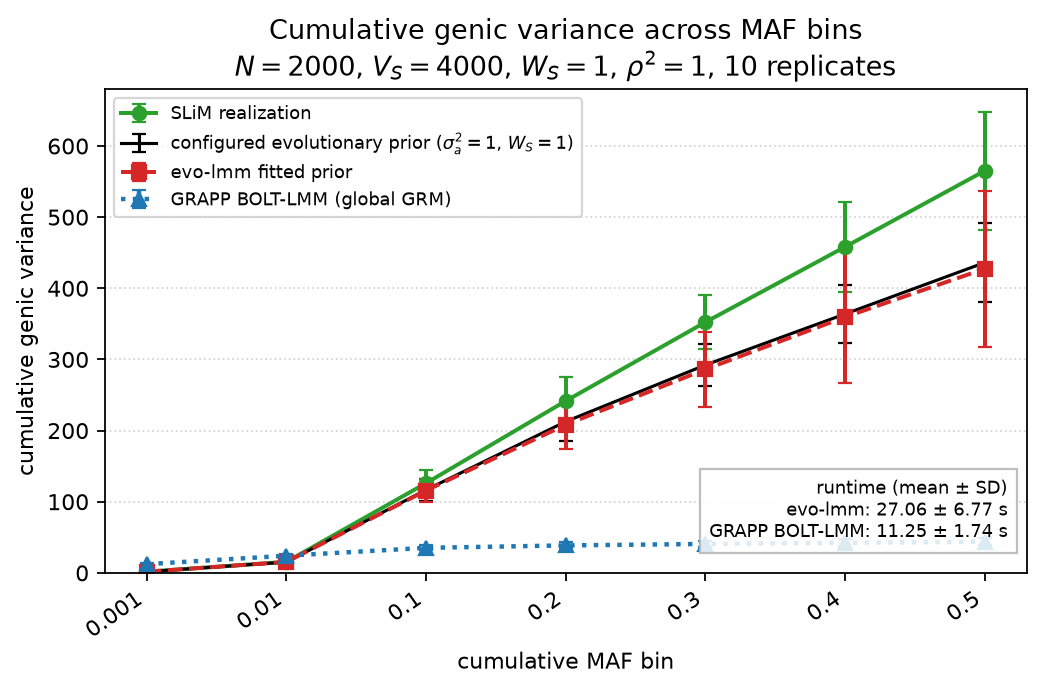
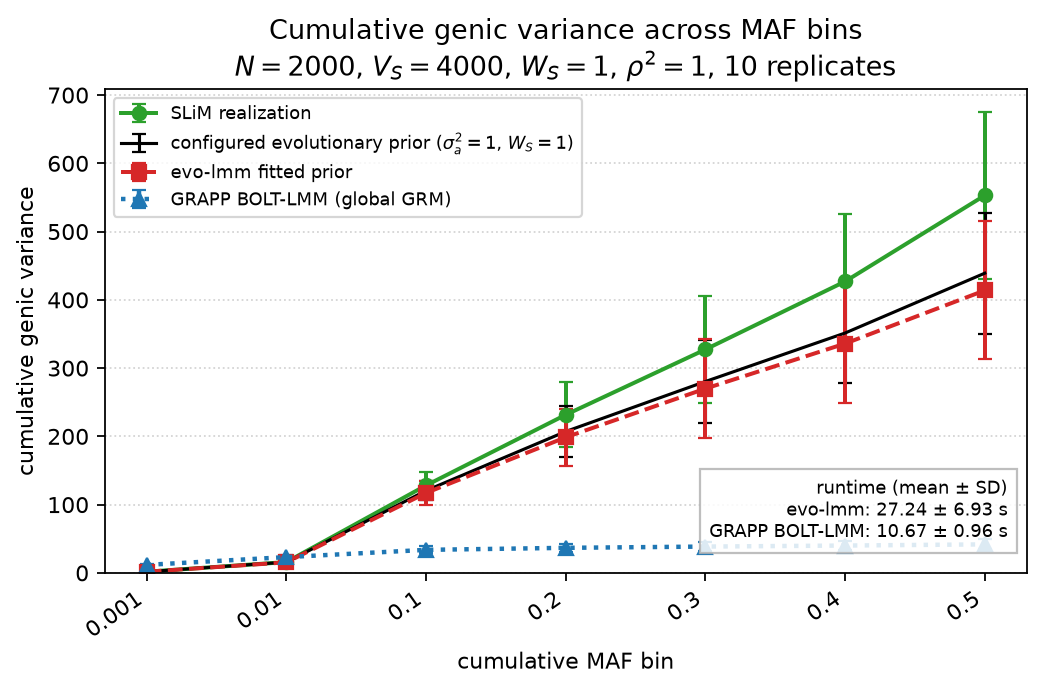
Extend SLiM tutorial simulations to 10N

diff --git a/docs/tutorials/slim_forward_simplified.py b/docs/tutorials/slim_forward_simplified.py
@@ -3,6 +3,7 @@
 from __future__ import annotations
 
 from concurrent.futures import ThreadPoolExecutor
+import json
 from pathlib import Path
 import subprocess
 import tempfile
@@ -21,7 +22,7 @@ from evo_lmm import (
 
 
 N_INDIVIDUALS = 2_000
-N_GENERATIONS = 4 * N_INDIVIDUALS
+N_GENERATIONS = 10 * N_INDIVIDUALS
 N_REPLICATES = 10
 SEQUENCE_LENGTH = 1_000_000
 SIGMA_A2 = 1.0
@@ -30,6 +31,19 @@ W_S = V_S / (2.0 * N_INDIVIDUALS)
 TRUE_TAU = SIGMA_A2 / W_S
 RESIDUAL_VARIANCE = 0.4
 SEED = 812
+
+
+def _simulation_manifest(seed: int) -> dict[str, int | float]:
+    """Return the configuration that defines a persisted forward replicate."""
+
+    return {
+        "seed": int(seed),
+        "individuals": N_INDIVIDUALS,
+        "generations": N_GENERATIONS,
+        "sequence_length": SEQUENCE_LENGTH,
+        "sigma_a2": SIGMA_A2,
+        "residual_variance": RESIDUAL_VARIANCE,
+    }
 
 
 def run_slim(output_directory: Path, seed: int = SEED) -> Path:
@@ -99,12 +113,23 @@ def _load_or_simulate_data(seed: int, output_directory: Path) -> dict:
         output_directory / "frequencies.npy",
         output_directory / "phenotype.npy",
         output_directory / "seed.txt",
+        output_directory / "simulation.json",
     )
     try:
         recorded_seed = int((output_directory / "seed.txt").read_text(encoding="utf-8"))
     except (FileNotFoundError, ValueError):
         recorded_seed = None
-    if recorded_seed != int(seed) or not all(path.exists() for path in required):
+    try:
+        recorded_manifest = json.loads(
+            (output_directory / "simulation.json").read_text(encoding="utf-8")
+        )
+    except (FileNotFoundError, ValueError, json.JSONDecodeError):
+        recorded_manifest = None
+    if (
+        recorded_seed != int(seed)
+        or recorded_manifest != _simulation_manifest(seed)
+        or not all(path.exists() for path in required)
+    ):
         tree_path = run_slim(output_directory, seed)
         recorded = tskit.load(str(tree_path))
         alpha = mutation_effects(recorded)
@@ -135,6 +160,10 @@ def _load_or_simulate_data(seed: int, output_directory: Path) -> dict:
         np.save(output_directory / "frequencies.npy", frequencies)
         np.save(output_directory / "phenotype.npy", phenotype)
         (output_directory / "seed.txt").write_text(f"{seed}\n", encoding="utf-8")
+        (output_directory / "simulation.json").write_text(
+            json.dumps(_simulation_manifest(seed), sort_keys=True) + "\n",
+            encoding="utf-8",
+        )
     else:
         tree_sequence = tskit.load(str(simplified_path))
         grg = pygrgl.grg_from_trees(str(simplified_path))

diff --git a/docs/tutorials/fit_bolt_benchmark.py b/docs/tutorials/fit_bolt_benchmark.py
@@ -17,9 +17,9 @@ if str(_TUTORIAL_DIRECTORY) not in sys.path:
 
 from bolt_benchmark import (  # noqa: E402
     SEED,
-    load_simulation_replicates,
     run_benchmark,
 )
+from slim_forward_simplified import load_simulation_replicates  # noqa: E402
 
 
 DATA_DIRECTORY = Path("docs/_artifacts/bolt_seed_812")

diff --git a/docs/tutorials/bolt_benchmark.rst b/docs/tutorials/bolt_benchmark.rst
@@ -9,7 +9,7 @@ how much fitting time it requires on the same GRG-backed data.
 
 The shared simulation uses:
 
-* 2,000 diploid individuals and a ``4N = 8,000`` generation burn-in;
+* 2,000 diploid individuals and a ``10N = 20,000`` generation burn-in;
 * ``L = 10^6`` bases and ``V_S = 2N = 4,000``, hence
   ``W_S = V_S/(2N) = 1``;
 * ``sigma_a^2 = sigma_b^2 = 1`` and the simplified ``rho^2 = 1`` model; and
@@ -28,67 +28,6 @@ each method's calibration or trace work. They exclude the shared SLiM run,
 tskit simplification, and GRG conversion. Both methods use 15 stochastic
 trials/probes and a ``5e-4`` CG tolerance. Times will vary by machine; the
 example prints the values observed locally.
-
-Sequential REML profiling
--------------------------
-
-This profiling experiment uses the seed-812 replicate, ``max_iter=8``, and
-``cg_tol=5e-4``. It isolates the REML loop to show the effect of warm starts,
-the trace estimator, and probe count. The iteration cap is deliberately short,
-so these estimates are for profiling rather than inference. Reproduce the
-sweep with ``uv run python docs/tutorials/trace_profile.py``.
-
-.. list-table::
-   :header-rows: 1
-
-   * - Configuration
-     - Seconds
-     - Relative speed
-     - sigma_b2
-     - tau
-     - sigma_e2
-     - delta
-     - Total CG iterations
-   * - Cold Hutchinson, 15 vectors
-     - 58.833
-     - 1.00x
-     - 0.965707
-     - 1.615884
-     - 0.388107
-     - 0.401889
-     - 1696
-   * - Warm Hutchinson, 15 vectors
-     - 25.598
-     - 2.30x
-     - 0.965676
-     - 1.615328
-     - 0.388117
-     - 0.401912
-     - 2
-   * - Warm XTrace, 15 vectors
-     - 45.840
-     - 1.28x
-     - 0.953846
-     - 1.742215
-     - 0.396512
-     - 0.415698
-     - 6
-   * - Warm XTrace, 5 vectors
-     - 34.280
-     - 1.72x
-     - 0.993457
-     - 2.866688
-     - 0.388782
-     - 0.391342
-     - 6
-
-Warm starts reduce this short fit from 58.833 to 25.598 seconds and reduce the
-aggregate CG count from 1,696 to 2. XTrace uses two query blocks per derivative
-trace, so its 15-vector configuration takes 45.840 seconds. Reducing XTrace to
-five vectors lowers that to 34.280 seconds, but substantially changes the
-estimated ``tau`` and increases trace uncertainty. These results motivate the
-Hutchinson default: in this setting, XTrace does not show a consistent error
-advantage at matched query budgets.
 
 Cumulative genic variance
 -------------------------
@@ -141,11 +80,11 @@ The current ten-replicate fit run reports:
      - Mean fit seconds
      - Sample SD seconds
    * - evo-lmm (warm Hutchinson, 15 vectors)
-     - 27.06
-     - 6.77
+     - 27.24
+     - 6.93
    * - GRAPP BOLT-LMM
-     - 11.74
-     - 1.77
+     - 10.67
+     - 0.96
 
 .. image:: ../_static/generated/bolt_benchmark.png
    :alt: Cumulative genic variance benchmark for evo-lmm and GRAPP BOLT-LMM

diff --git a/docs/tutorials/slim_forward_simplified.rst b/docs/tutorials/slim_forward_simplified.rst
@@ -44,7 +44,7 @@ The forward model
 -----------------
 
 The simulation fixes a diploid population of 2,000 individuals, runs for
-``4N = 8,000`` generations across ``L = 10^6`` bases, and records a tree
+``10N = 20,000`` generations across ``L = 10^6`` bases, and records a tree
 sequence. It uses ``V_S = 2N = 4,000``, hence ``W_S = 1``. The complete SLiM
 source is included in the following expandable block.
 
